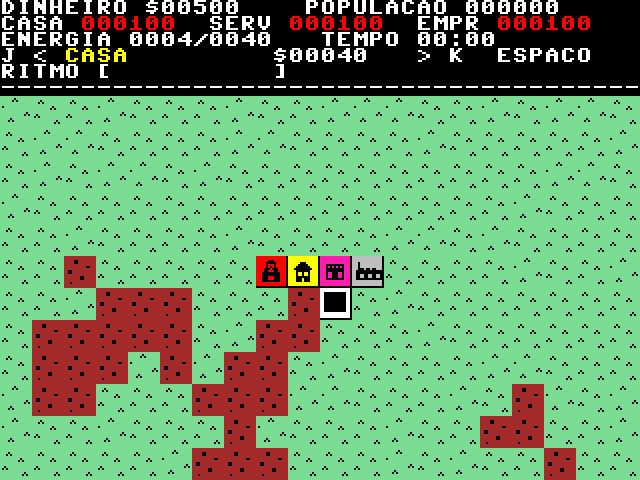
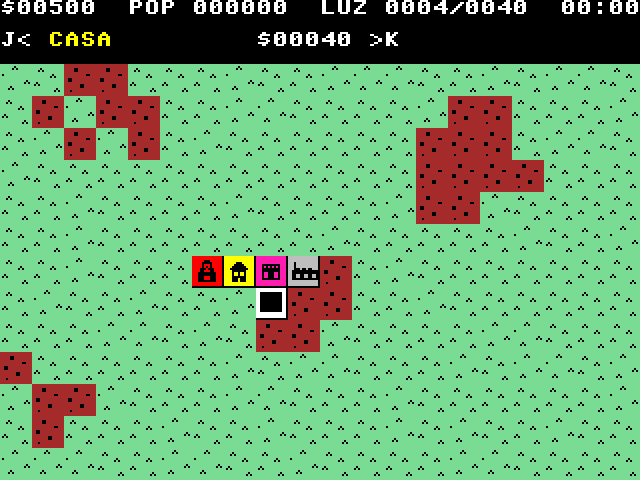
Encolhe o painel do jogo da OAC para duas linhas e aumenta a cidade

diff --git a/ferramentas/joga_teste.py b/ferramentas/joga_teste.py
@@ -70,7 +70,7 @@ class Jogador:
             self.tecla('k')
 
     def constroi(self, tipo):
-        livre = [b for b in range(240) if self.m('tipo', b) == 0]
+        livre = [b for b in range(260) if self.m('tipo', b) == 0]
         if not livre:
             return False
         antes = self.m('dinheiro')
@@ -91,7 +91,7 @@ class Jogador:
                 else:
                     return
                 continue
-            pot = {t: sum(CAP[max(self.m('nivel', b), 1)] for b in range(240) if self.m('tipo', b) == t)
+            pot = {t: sum(CAP[max(self.m('nivel', b), 1)] for b in range(260) if self.m('tipo', b) == t)
                    for t in (1, 2, 3)}
             t = min(pot, key=pot.get)
             if din < CUSTO[t]:

diff --git a/DESIGN.md b/DESIGN.md
@@ -66,18 +66,16 @@ Fica para depois: poluição.
 
 ## Tela e controles
 
-- Painel no topo (linhas 0 a 4), separador na linha 5, cidade em grid de blocos de 2×2 caracteres: 20×12 = 240 blocos nas linhas 6 a 29.
+- Painel no topo em duas linhas (0 e 2), com uma linha em branco entre elas e outra antes da cidade. Cidade em grid de blocos de 2×2 caracteres: 20×13 = 260 blocos nas linhas 4 a 29. A linha em branco é o menor espaço possível: a tela é uma grade de caracteres de 8 pontos de altura.
 - Cursor: contorno branco que pisca com o bloco embaixo (troca a cada ~0,5 s; aparece na hora ao mover). Não dá para desenhar o contorno por cima do bloco: cada caractere tem uma cor só, sobre fundo preto.
 - WASD ou setas movem a seleção. J e K giram a roleta (casa, comércio, indústria, usina pequena, usina grande, demolir). Espaço aplica. `+` adianta uma atualização (para testar e apresentar).
 - Demolir devolve metade do custo.
 - Apagão: a energia é entregue aos blocos em ordem (de cima para baixo, da esquerda para a direita); quem passa da produção fica sem luz, em azul-escuro, e não conta para casas, serviço, empregos nem receita.
 
 **Painel:**
-- Linha 0: dinheiro e população.
-- Linha 1: casas, serviço e empregos, com o gargalo (o menor) em vermelho.
-- Linha 2: energia `consumo/produção` (vermelha no apagão) e tempo.
-- Linha 3: roleta, com nome e preço.
-- Linha 4: barra de ritmo (10 partes = 1 atualização) e mensagens.
+- Linha 0: dinheiro, população, energia `consumo/produção` (vermelha no apagão) e tempo.
+- Linha 2: roleta (ação e preço) e mensagens curtas (lote ocupado, sem dinheiro, apagão).
+- Casas, serviço e empregos não aparecem: o jogador lê o gargalo pela cidade (quem para de crescer).
 
 **Visual:** o chão é um mapa contínuo de grama verde clara com tufinhos, com manchas de terra marrom. Os prédios são lotes quadrados de 15×15 pontos na cor do tipo, com o desenho em preto e uma linha preta separando os lotes. Desenhos em `arte/blocos.txt`.
 
